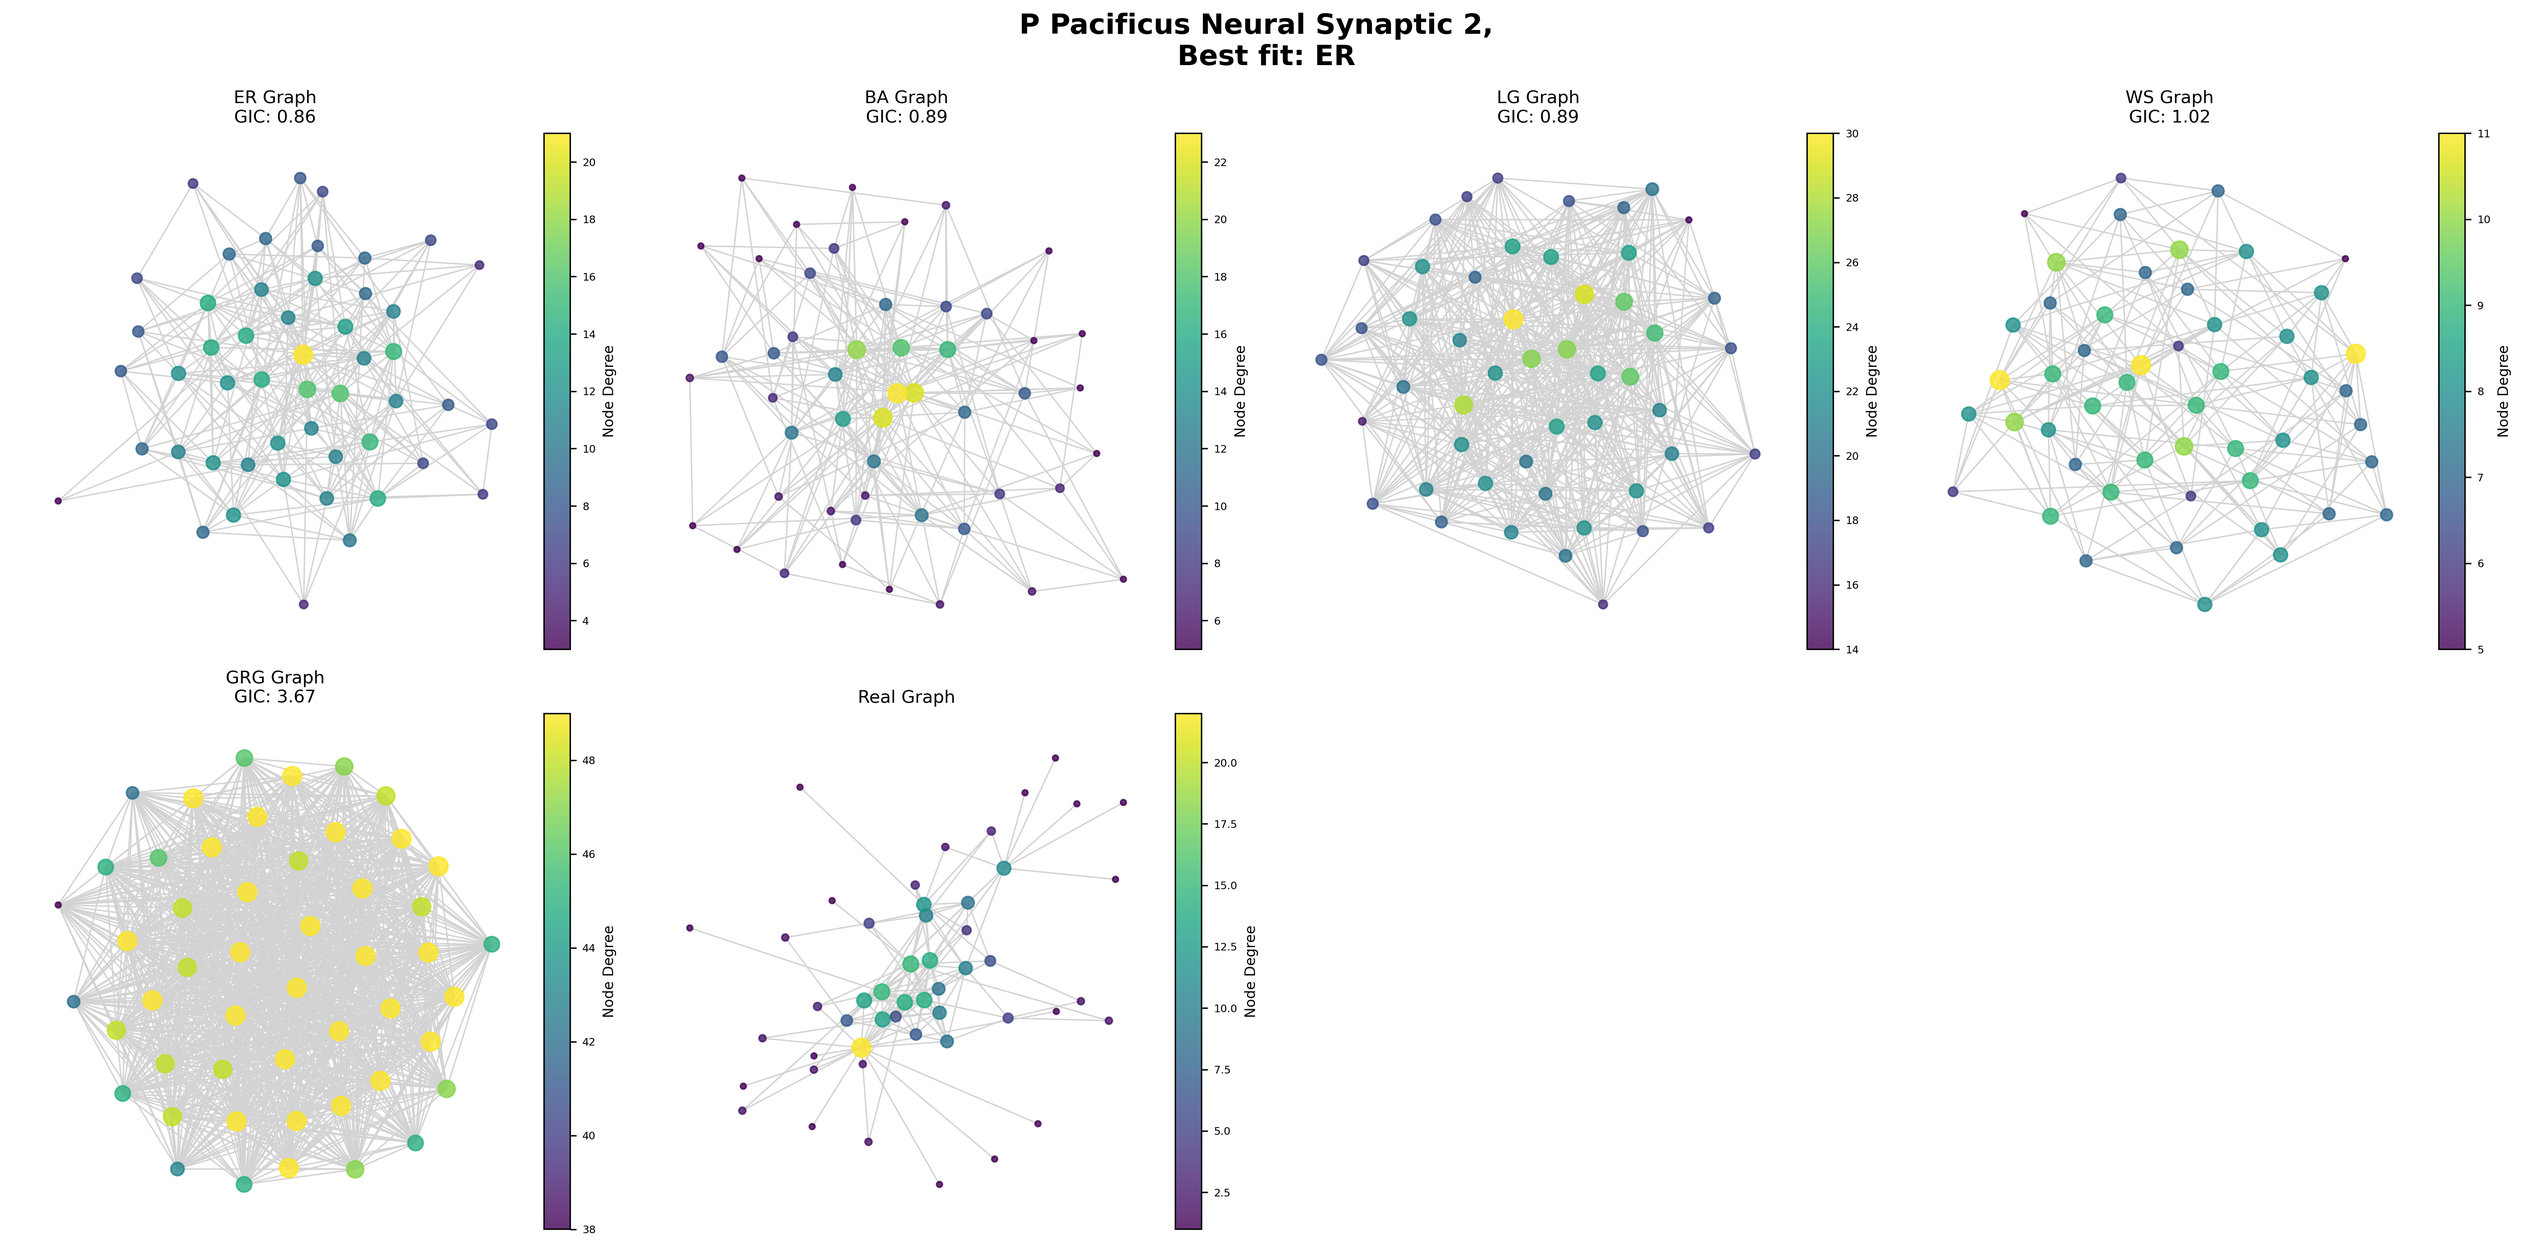
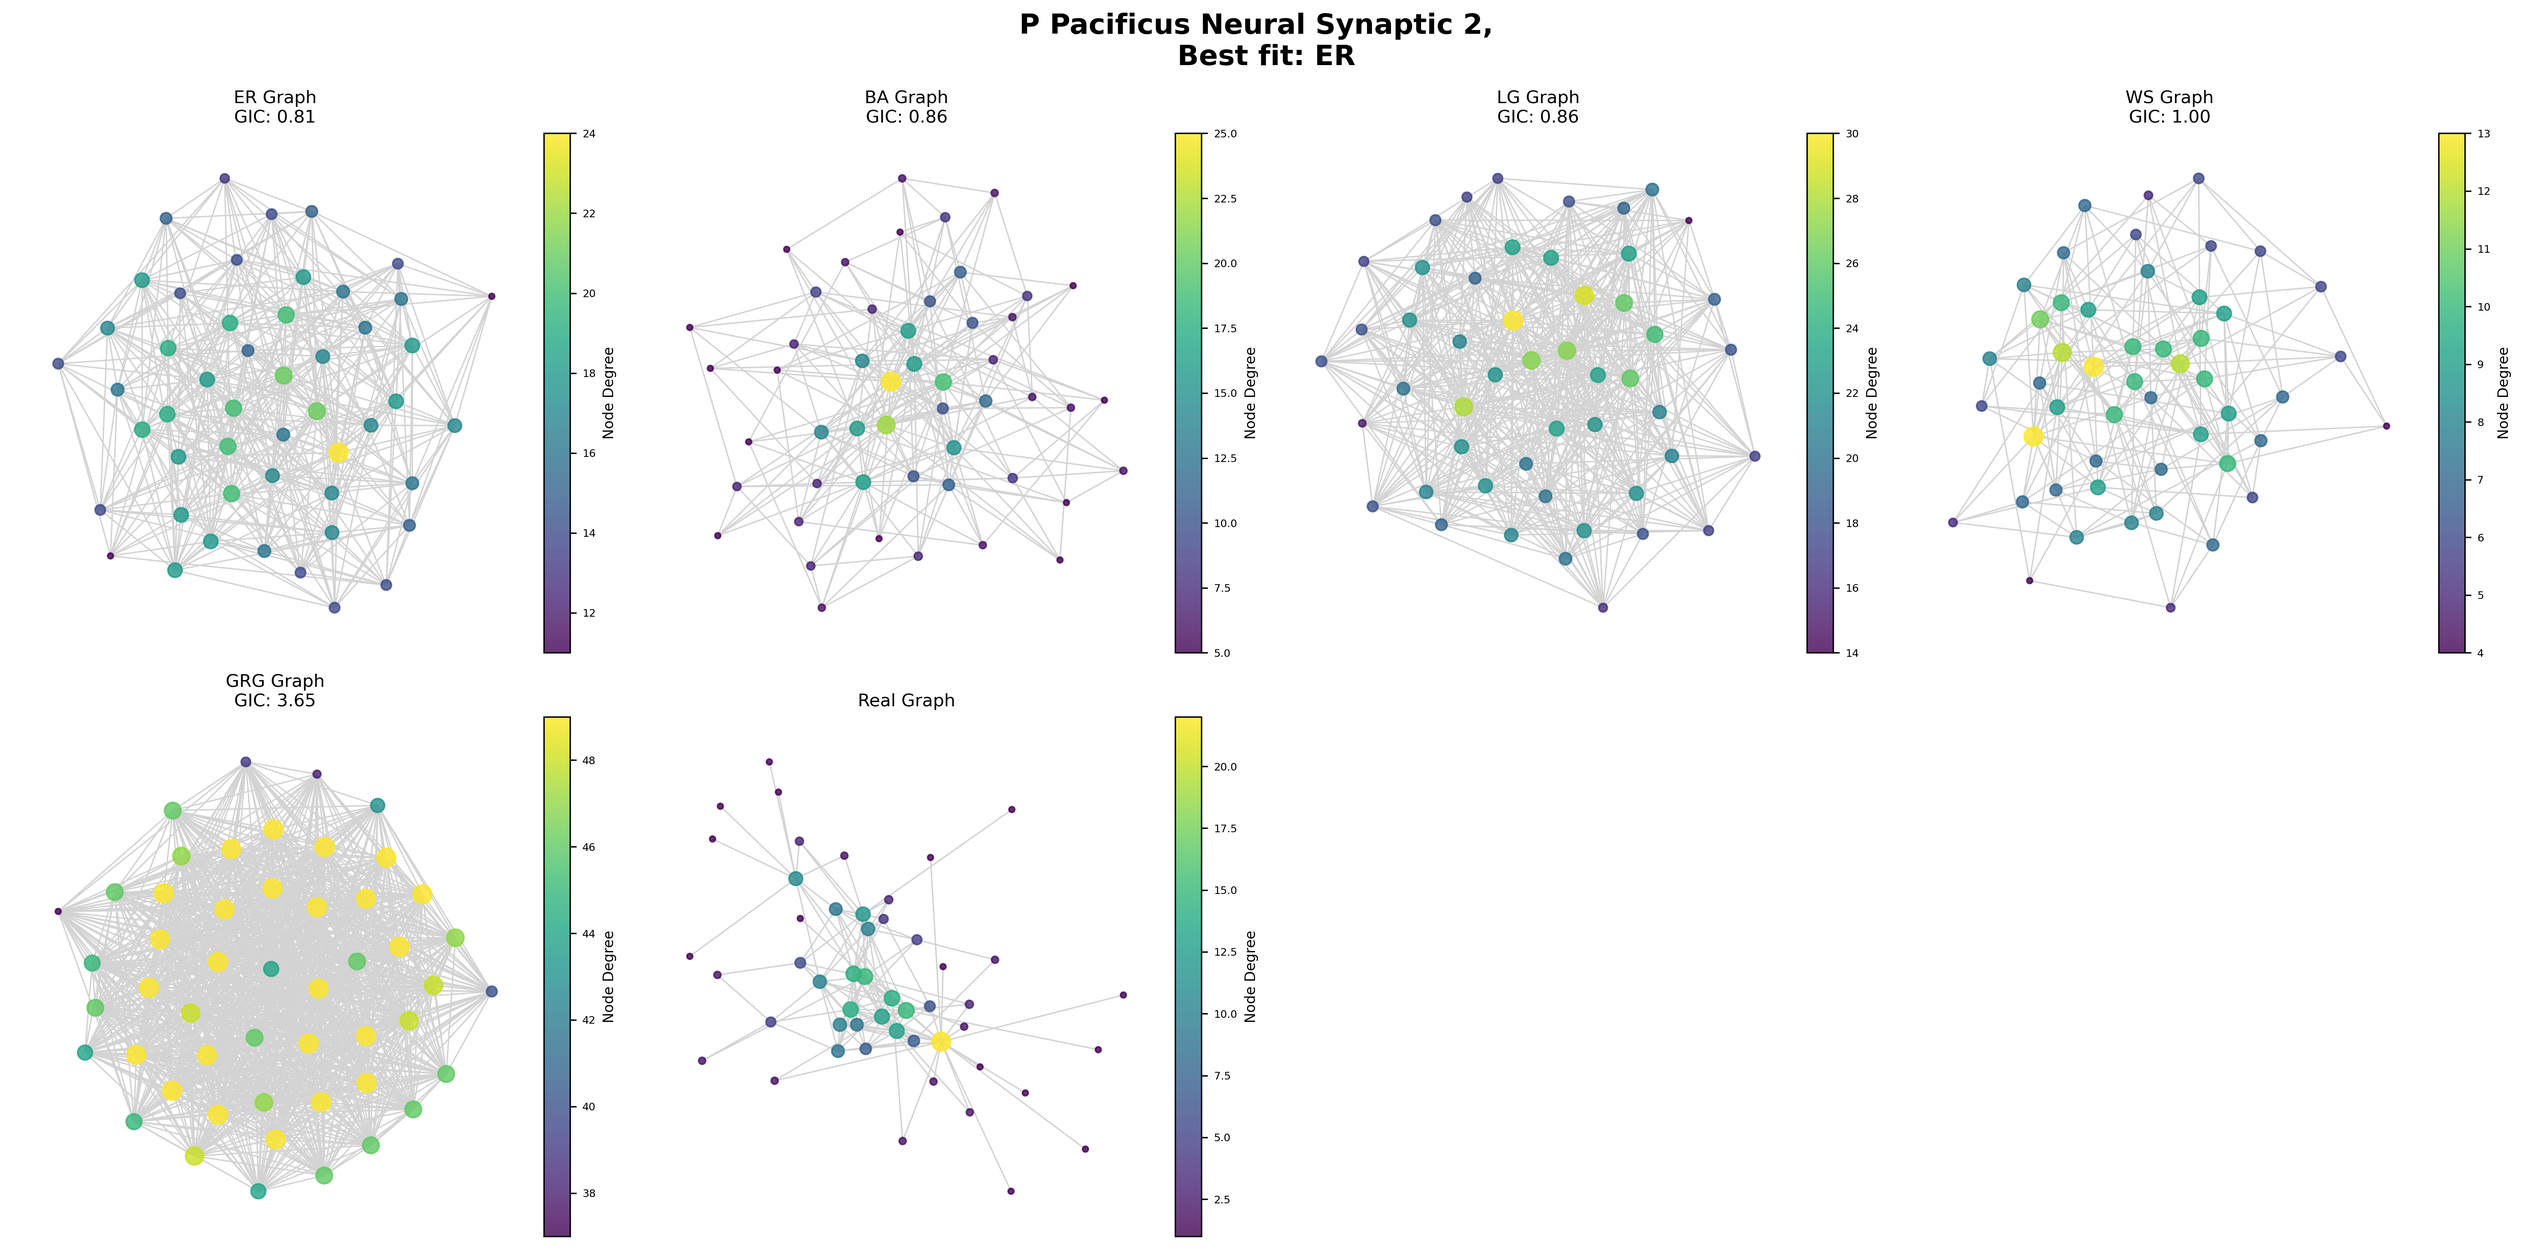
new imgs

diff --git a/notebooks/tests_dataset.py b/notebooks/tests_dataset.py
@@ -39,7 +39,15 @@ from mpl_toolkits.axes_grid1 import make_axes_locatable
 
 np.random.seed(42)
 datasets = f'../data/connectomes/'
-connectomes = os.listdir(datasets)
+already_done = os.listdir('../images/imgs_connectomes/') 
+# Remove the .png from the name
+excluded = ['c.elegans.herm_pharynx_1.graphml']
+already_done = [os.path.splitext(file)[0] for file in already_done] + excluded
+
+connectomes = sorted(os.listdir(datasets)) 
+connectomes = [connectome for connectome in connectomes if connectome not in already_done]
+print(connectomes)
+
 # Ensure the necessary directories exist
 os.makedirs('../images/imgs_connectomes/', exist_ok=True)
 os.makedirs('../images/imgs_spectra/', exist_ok=True)
@@ -167,7 +175,7 @@ def plot_graphs_in_matrix(sim_graphs_dict, result_dict, global_title, save_path=
     if save_path:
         fig.savefig(save_path, bbox_inches='tight', dpi=300)
 
-    plt.show()
+    #plt.show()
     return fig
 
 def plot_spectra_in_matrix(sim_graphs_dict, result_dict, global_title, bins=120, save_path=None):
@@ -219,152 +227,149 @@ def plot_spectra_in_matrix(sim_graphs_dict, result_dict, global_title, bins=120,
     if save_path:
         fig.savefig(save_path, bbox_inches='tight', dpi=300)
 
-    plt.show()
+    #plt.show()
     return fig
 
 
 if __name__ == "__main__":
     for i in range(len(connectomes)):
+        # Problem on connectome 10
         print(f"Processing connectome {i+1}/{len(connectomes)}: {connectomes[i]}")
-        try:
-            real_graph = nx.read_graphml(datasets + connectomes[i])
-            real_graph = nx.to_numpy_array(real_graph)
+        real_graph = nx.read_graphml(datasets + connectomes[i])
+        real_graph = nx.to_numpy_array(real_graph)
 
-            print(f"Graph shape: {real_graph.shape}")
+        print(f"Graph shape: {real_graph.shape}")
 
-            dist_types = ['KL']
-            results_dict = {}
+        dist_types = ['KL']
+        results_dict = {}
 
-            for d in range(4):
-                results_dict[d] = {}
-                for dist_type in dist_types:
-                    try:
-                        logit_graph, sigma, gic_values, spectrum_diffs, best_iteration, all_graphs = get_logit_graph(
-                            real_graph=nx.from_numpy_array(real_graph),
-                            d=d,
-                            warm_up=1000,
-                            n_iteration=20000,
-                            patience=100,
-                            dist_type=dist_type
-                        )
-                        
-                        results_dict[d][dist_type] = {
-                            'logit_graph': logit_graph,
-                            'sigma': sigma,
-                            'gic_values': gic_values,
-                            'spectrum_diffs': spectrum_diffs,
-                            'best_iteration': best_iteration,
-                            'all_graphs': all_graphs,
-                        }
-                    except Exception as e:
-                        print(f"Error processing d={d}, dist_type={dist_type}: {e}")
-                        results_dict[d][dist_type] = None
-
-            # Plot and save the spectrum evolution
-            fig, axes = plt.subplots(1, len(results_dict), figsize=(20, 5))
-            fig.suptitle(f'{connectomes[i]}: Spectrum distance generated vs real graph for different dimensions')
-
-            for d in range(len(results_dict)):
-                ax = axes[d] if len(results_dict) > 1 else axes
-                for dist_type in dist_types:
-                    if results_dict[d][dist_type] is not None:
-                        spectrum_diffs = results_dict[d][dist_type]['spectrum_diffs']
-                        ax.plot(spectrum_diffs, label=dist_type)
-                ax.set_title(f'Neighbors: {d}')
-                ax.set_xlabel('Iteration')
-                ax.set_ylabel('Spectrum distance')
-                ax.legend()
-
-            plt.tight_layout()
-            plt.savefig(f'../images/search_neighbors/{connectomes[i]}.png', dpi=300, bbox_inches='tight')
-            plt.close()
-
+        for d in range(4):
+            results_dict[d] = {}
             for dist_type in dist_types:
-                print(f"\nDistance type: {dist_type}")
-                for d in results_dict:
-                    if results_dict[d][dist_type] is not None:
-                        print(f"Best iteration for d = {d}: {results_dict[d][dist_type]['best_iteration']}")
+                try:
+                    logit_graph, sigma, gic_values, spectrum_diffs, best_iteration, all_graphs = get_logit_graph(
+                        real_graph=nx.from_numpy_array(real_graph),
+                        d=d,
+                        warm_up=1000,
+                        n_iteration=5000,
+                        patience=100,
+                        dist_type=dist_type
+                    )
+                    
+                    results_dict[d][dist_type] = {
+                        'logit_graph': logit_graph,
+                        'sigma': sigma,
+                        'gic_values': gic_values,
+                        'spectrum_diffs': spectrum_diffs,
+                        'best_iteration': best_iteration,
+                        'all_graphs': all_graphs,
+                    }
+                except Exception as e:
+                    print(f"Error processing d={d}, dist_type={dist_type}: {e}")
+                    results_dict[d][dist_type] = None
 
-            best_d = {}
-            best_final_diff = {}
+        # Plot and save the spectrum evolution
+        fig, axes = plt.subplots(1, len(results_dict), figsize=(20, 5))
+        fig.suptitle(f'{connectomes[i]}: Spectrum distance generated vs real graph for different dimensions')
 
+        for d in range(len(results_dict)):
+            ax = axes[d] if len(results_dict) > 1 else axes
             for dist_type in dist_types:
-                valid_results = {d: results_dict[d][dist_type] for d in results_dict if results_dict[d][dist_type] is not None}
-                if valid_results:
-                    best_d[dist_type] = min(valid_results, key=lambda d: valid_results[d]['spectrum_diffs'][-1])
-                    best_final_diff[dist_type] = valid_results[best_d[dist_type]]['spectrum_diffs'][-1]
-                    print(f"For {dist_type}, the best dimension d is {best_d[dist_type]} with a final spectrum difference of {best_final_diff[dist_type]:.6f}")
+                if results_dict[d][dist_type] is not None:
+                    spectrum_diffs = results_dict[d][dist_type]['spectrum_diffs']
+                    ax.plot(spectrum_diffs, label=dist_type)
+            ax.set_title(f'Neighbors: {d}')
+            ax.set_xlabel('Iteration')
+            ax.set_ylabel('Spectrum distance')
+            ax.legend()
 
-            dist_type = 'KL'
-            d = best_d[dist_type]
-            logit_graph = results_dict[d][dist_type]['logit_graph']
-            sigma = results_dict[d][dist_type]['sigma']
-            gic_values = results_dict[d][dist_type]['gic_values']
-            spectrum_diffs = results_dict[d][dist_type]['spectrum_diffs']
-            best_iteration = results_dict[d][dist_type]['best_iteration']
+        plt.tight_layout()
+        plt.savefig(f'../images/search_neighbors/{connectomes[i]}.png', dpi=300, bbox_inches='tight')
+        plt.close()
 
-            n_runs_graphs = 10
-            all_graphs_lg = results_dict[d][dist_type]['all_graphs']
-            all_graphs_lg = all_graphs_lg[-n_runs_graphs-1:-1] 
-            all_graphs_lg = [nx.from_numpy_array(graph) for graph in all_graphs_lg]
+        for dist_type in dist_types:
+            print(f"\nDistance type: {dist_type}")
+            for d in results_dict:
+                if results_dict[d][dist_type] is not None:
+                    print(f"Best iteration for d = {d}: {results_dict[d][dist_type]['best_iteration']}")
 
-            log_params = [sigma]*len(all_graphs_lg)
+        best_d = {}
+        best_final_diff = {}
 
-            selector = ms.GraphModelSelection(graph=nx.from_numpy_array(real_graph),
-                                            log_graphs=all_graphs_lg,
-                                            log_params=log_params,
-                                            models=["ER", "WS", "GRG", "BA", "LG"],
-                                            n_runs=n_runs_graphs,
-                                            parameters=[{'lo': 0.01, 'hi': 1},  # ER
-                                                        {'lo': 0.01, 'hi': 1},  # WS k=8
-                                                        {'lo': 1, 'hi': 3},     # GRG
-                                                        {'lo': 1, 'hi': 5},     # BA
-                                                    ]
-                                            )
+        for dist_type in dist_types:
+            valid_results = {d: results_dict[d][dist_type] for d in results_dict if results_dict[d][dist_type] is not None}
+            if valid_results:
+                best_d[dist_type] = min(valid_results, key=lambda d: valid_results[d]['spectrum_diffs'][-1])
+                best_final_diff[dist_type] = valid_results[best_d[dist_type]]['spectrum_diffs'][-1]
+                print(f"For {dist_type}, the best dimension d is {best_d[dist_type]} with a final spectrum difference of {best_final_diff[dist_type]:.6f}")
 
-            result = selector.select_model_avg_spectrum()
+        dist_type = 'KL'
+        d = best_d[dist_type]
+        logit_graph = results_dict[d][dist_type]['logit_graph']
+        sigma = results_dict[d][dist_type]['sigma']
+        gic_values = results_dict[d][dist_type]['gic_values']
+        spectrum_diffs = results_dict[d][dist_type]['spectrum_diffs']
+        best_iteration = results_dict[d][dist_type]['best_iteration']
 
-            # For the average spectrum
-            result_dict = {item['model']: {'param': clean_and_convert(item['param']), 'distance': item['distance'], 'GIC': item['distance']} for item in result['estimates']}
-            min_distance_key = min(result_dict, key=lambda k: result_dict[k]['distance']) # Get best fit
-            min_gic_key = min(result_dict, key=lambda k: result_dict[k]['GIC']) # Get best fit based on GIC
-            model_names = result_dict.keys()
+        n_runs_graphs = 10
+        all_graphs_lg = results_dict[d][dist_type]['all_graphs']
+        all_graphs_lg = all_graphs_lg[-n_runs_graphs-1:-1] 
+        all_graphs_lg = [nx.from_numpy_array(graph) for graph in all_graphs_lg]
 
-            # Plotting the analysis
-            sim_graphs_dict = {}
-            for model in model_names:
-                if model != 'LG':
-                    func = selector.model_function(model_name=model)
-                    graph_sim = func(real_graph.shape[0], float(result_dict[model]['param']))
-                    sim_graphs_dict[model] = graph_sim
-                elif model == 'LG':
-                    sim_graphs_dict[model] = nx.from_numpy_array(logit_graph)
+        log_params = [sigma]*len(all_graphs_lg)
 
-            sim_graphs_dict['Real'] = nx.from_numpy_array(real_graph)
+        selector = ms.GraphModelSelection(graph=nx.from_numpy_array(real_graph),
+                                        log_graphs=all_graphs_lg,
+                                        log_params=log_params,
+                                        models=["ER", "WS", "GRG", "BA", "LG"],
+                                        n_runs=n_runs_graphs,
+                                        parameters=[{'lo': 0.01, 'hi': 1},  # ER
+                                                    {'lo': 0.01, 'hi': 1},  # WS k=8
+                                                    {'lo': 1, 'hi': 3},     # GRG
+                                                    {'lo': 1, 'hi': 5},     # BA
+                                                ]
+                                        )
 
-            clean_title = os.path.splitext(connectomes[i])[0].replace('_', ' ')
-            clean_title = clean_title.replace('.', ' ')
-            clean_title = ' '.join(word.capitalize() for word in clean_title.split())
-            fig = plot_graphs_in_matrix(sim_graphs_dict,
-                                        result_dict,
-                                        global_title=f'{clean_title}, \n Best fit: {min_gic_key}',
-                                        save_path=f'../images/imgs_connectomes/{connectomes[i]}.png')
-            plt.close()
+        result = selector.select_model_avg_spectrum()
 
-            # Plot and save spectrum visualizations
-            fig = plot_spectra_in_matrix(sim_graphs_dict,
-                                        result_dict,
-                                        global_title=f'{clean_title} , \n Best fit {min_gic_key}',
-                                        bins=50,
-                                        save_path=f'../images/imgs_spectra/spectra_{connectomes[i]}.png')
-            plt.close()
+        # For the average spectrum
+        result_dict = {item['model']: {'param': clean_and_convert(item['param']), 'distance': item['distance'], 'GIC': item['distance']} for item in result['estimates']}
+        min_distance_key = min(result_dict, key=lambda k: result_dict[k]['distance']) # Get best fit
+        min_gic_key = min(result_dict, key=lambda k: result_dict[k]['GIC']) # Get best fit based on GIC
+        model_names = result_dict.keys()
 
-            print(f"Completed processing for {connectomes[i]}")
-            print("--------------------")
+        # Plotting the analysis
+        sim_graphs_dict = {}
+        for model in model_names:
+            if model != 'LG':
+                func = selector.model_function(model_name=model)
+                graph_sim = func(real_graph.shape[0], float(result_dict[model]['param']))
+                sim_graphs_dict[model] = graph_sim
+            elif model == 'LG':
+                sim_graphs_dict[model] = nx.from_numpy_array(logit_graph)
 
-        except Exception as e:
-            print(f"Error processing {connectomes[i]}: {e}")
-        
+        sim_graphs_dict['Real'] = nx.from_numpy_array(real_graph)
+
+        clean_title = os.path.splitext(connectomes[i])[0].replace('_', ' ')
+        clean_title = clean_title.replace('.', ' ')
+        clean_title = ' '.join(word.capitalize() for word in clean_title.split())
+        fig = plot_graphs_in_matrix(sim_graphs_dict,
+                                    result_dict,
+                                    global_title=f'{clean_title}, \n Best fit: {min_gic_key}',
+                                    save_path=f'../images/imgs_connectomes/{connectomes[i]}.png')
+        plt.close()
+
+        # Plot and save spectrum visualizations
+        fig = plot_spectra_in_matrix(sim_graphs_dict,
+                                    result_dict,
+                                    global_title=f'{clean_title} , \n Best fit {min_gic_key}',
+                                    bins=50,
+                                    save_path=f'../images/imgs_spectra/spectra_{connectomes[i]}.png')
+        plt.close()
+
+        print(f"Completed processing for {connectomes[i]}")
+        print("--------------------")
+
         # Add a garbage collection call to free up memory
         gc.collect()
 
